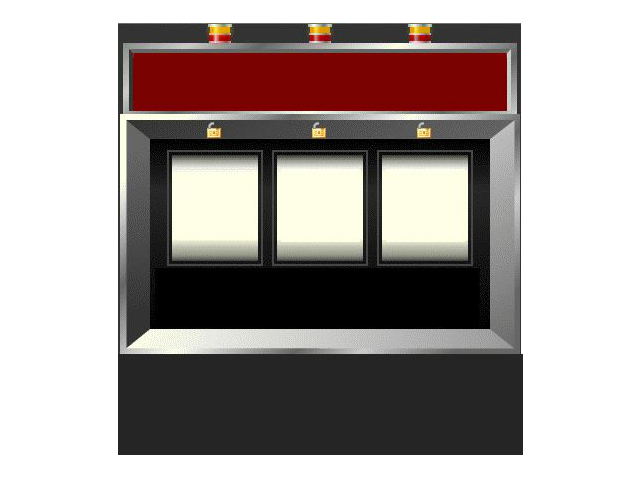
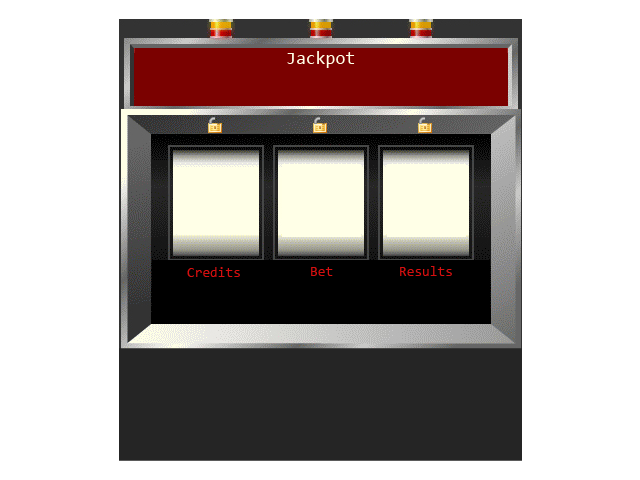
Quit button added

Changed region(s): [[0.1875, 0.0312, 0.8125, 0.75], [0.1875, 0.9375, 0.8125, 0.9688]]

diff --git a/Scripts/scenes/slotmachine.ts b/Scripts/scenes/slotmachine.ts
@@ -1,4 +1,4 @@
-// MENU SCENE
+// SLOT MACHINE SCENE
 module scenes {
     export class SlotMachine extends objects.Scene {
         //PRIVATE INSTANCE VARIABLES ++++++++++++
@@ -25,6 +25,8 @@ module scenes {
         private _bells = 0;
         private _sevens = 0;
         private _blanks = 0;
+        
+        private _quitButton: objects.Button;
         // CONSTRUCTOR ++++++++++++++++++++++
         constructor() {
             super();
@@ -60,12 +62,22 @@ module scenes {
             this._spinButton = new objects.Button("SpinButton", 402, 382, false);
             this.addChild(this._spinButton);
             this._spinButton.on("click", this._spinButtonClick, this); 
+            
+            // add the QUIT button to the SLOT_MACHINE scene
+            this._quitButton = new objects.Button(
+                "Quit",
+                config.Screen.CENTER_X,
+                500, true);
+            this.addChild(this._quitButton);
+            
+            // START Button event listener
+            this._quitButton.on("click", this._quitButtonClick, this);
         
             // add JackPot Text to the scene
             this._jackpotText = new objects.Label(
                 this.jackpot.toString(),
                 "14px Consolas",
-                "#ff0000",
+                "white",
                 335, 90, false);
             this._jackpotText.textAlign = "right";
             this.addChild(this._jackpotText);
@@ -113,6 +125,16 @@ module scenes {
         // SLOT_MACHINE Scene updates here
         public update(): void {
 
+        }
+        
+        //EVENT HANDLERS ++++++++++++++++++++
+        
+        // QUIT Button click event handler
+        private _quitButtonClick(event: createjs.MouseEvent) {
+          //GO TO GAMEOVER SCENE
+                scene = config.Scene.GAME_OVER;
+                changeScene();
+           
         }
         
         //PRIVATE METHODS
@@ -255,7 +277,7 @@ module scenes {
             for (var reel: number = 0; reel < 3; reel++) {
                 this._reels[reel] = new createjs.Bitmap(assets.getResult("Blank"));
                 this._reels[reel].x = 180 + (reel * 105);
-                this._reels[reel].y = 170;
+                this._reels[reel].y = 165;
                 this.addChild(this._reels[reel]);
                 console.log("reel" + reel + " " + this._reels[reel]);
             }

diff --git a/Scripts/scenes/slotmachine.js b/Scripts/scenes/slotmachine.js
@@ -3,7 +3,7 @@ var __extends = (this && this.__extends) || function (d, b) {
     function __() { this.constructor = d; }
     d.prototype = b === null ? Object.create(b) : (__.prototype = b.prototype, new __());
 };
-// MENU SCENE
+// SLOT MACHINE SCENE
 var scenes;
 (function (scenes) {
     var SlotMachine = (function (_super) {
@@ -44,8 +44,13 @@ var scenes;
             this._spinButton = new objects.Button("SpinButton", 402, 382, false);
             this.addChild(this._spinButton);
             this._spinButton.on("click", this._spinButtonClick, this);
+            // add the QUIT button to the SLOT_MACHINE scene
+            this._quitButton = new objects.Button("Quit", config.Screen.CENTER_X, 500, true);
+            this.addChild(this._quitButton);
+            // START Button event listener
+            this._quitButton.on("click", this._quitButtonClick, this);
             // add JackPot Text to the scene
-            this._jackpotText = new objects.Label(this.jackpot.toString(), "14px Consolas", "#ff0000", 335, 90, false);
+            this._jackpotText = new objects.Label(this.jackpot.toString(), "14px Consolas", "white", 335, 90, false);
             this._jackpotText.textAlign = "right";
             this.addChild(this._jackpotText);
             // add Credits Text to the scene
@@ -71,6 +76,13 @@ var scenes;
         };
         // SLOT_MACHINE Scene updates here
         SlotMachine.prototype.update = function () {
+        };
+        //EVENT HANDLERS ++++++++++++++++++++
+        // QUIT Button click event handler
+        SlotMachine.prototype._quitButtonClick = function (event) {
+            //GO TO GAMEOVER SCENE
+            scene = config.Scene.GAME_OVER;
+            changeScene();
         };
         //PRIVATE METHODS
         /* Utility function to check if a value falls within a range of bounds */
@@ -203,7 +215,7 @@ var scenes;
             for (var reel = 0; reel < 3; reel++) {
                 this._reels[reel] = new createjs.Bitmap(assets.getResult("Blank"));
                 this._reels[reel].x = 180 + (reel * 105);
-                this._reels[reel].y = 170;
+                this._reels[reel].y = 165;
                 this.addChild(this._reels[reel]);
                 console.log("reel" + reel + " " + this._reels[reel]);
             }

diff --git a/Scripts/scenes/gameover.js b/Scripts/scenes/gameover.js
@@ -19,7 +19,7 @@ var scenes;
             this._gameOverLabel = new objects.Label("GAME OVER", "60px Consolas", "#000000", config.Screen.CENTER_X, config.Screen.CENTER_Y, true);
             this.addChild(this._gameOverLabel);
             // add the START button to the MENU scene
-            this._startOverButton = new objects.Button("StartButton", config.Screen.CENTER_X, config.Screen.CENTER_Y + 80, true);
+            this._startOverButton = new objects.Button("StartOverButton", config.Screen.CENTER_X, config.Screen.CENTER_Y + 80, true);
             this.addChild(this._startOverButton);
             // START Button event listener
             this._startOverButton.on("click", this._startOverButtonClick, this);

diff --git a/Scripts/scenes/menu.js b/Scripts/scenes/menu.js
@@ -16,7 +16,7 @@ var scenes;
         // Start Method
         Menu.prototype.start = function () {
             // add the WELCOME Label to the MENU scene
-            this._welcomeLabel = new objects.Label("SLOT MACHINE", "60px Consolas", "#000000", config.Screen.CENTER_X, config.Screen.CENTER_Y, true);
+            this._welcomeLabel = new objects.Label("SLOT MACHINE GAME", "60px Consolas", "#000000", config.Screen.CENTER_X, config.Screen.CENTER_Y, true);
             this.addChild(this._welcomeLabel);
             // add the START button to the MENU scene
             this._startButton = new objects.Button("StartButton", config.Screen.CENTER_X, config.Screen.CENTER_Y + 80, true);

diff --git a/Scripts/core/game.js b/Scripts/core/game.js
@@ -14,6 +14,8 @@ var assetData = [
     { id: "BackButton", src: "../../Assets/images/BackButton.png" },
     { id: "Nextbutton", src: "../../Assets/images/Nextbutton.png" },
     { id: "StartButton", src: "../../Assets/images/StartButton.png" },
+    { id: "Quit", src: "../../Assets/images/Quit.png" },
+    { id: "Reset", src: "../../Assets/images/Reset.png" },
     { id: "StartOverButton", src: "../../Assets/images/StartOverButton.png" },
     { id: "SlotMachine", src: "../../Assets/images/slotmachine3.png" },
     { id: "Bet1Button", src: "../../Assets/images/Bet1Button.png" },

diff --git a/Scripts/core/game.ts b/Scripts/core/game.ts
@@ -18,6 +18,8 @@ var assetData:objects.Asset[] = [
     {id: "BackButton", src:"../../Assets/images/BackButton.png"},
     {id: "Nextbutton", src:"../../Assets/images/Nextbutton.png"},
     {id: "StartButton", src:"../../Assets/images/StartButton.png"},
+    {id: "Quit", src:"../../Assets/images/Quit.png"},
+    {id: "Reset", src:"../../Assets/images/Reset.png"},
     {id: "StartOverButton", src:"../../Assets/images/StartOverButton.png"},
     {id: "SlotMachine", src:"../../Assets/images/slotmachine3.png"},
     {id: "Bet1Button", src:"../../Assets/images/Bet1Button.png"},

diff --git a/Scripts/scenes/gameover.ts b/Scripts/scenes/gameover.ts
@@ -26,7 +26,7 @@ module scenes {
                    
             // add the START button to the MENU scene
             this._startOverButton = new objects.Button(
-                "StartButton",
+                "StartOverButton",
                 config.Screen.CENTER_X,
                 config.Screen.CENTER_Y + 80, true);
             this.addChild(this._startOverButton);

diff --git a/Scripts/scenes/menu.ts b/Scripts/scenes/menu.ts
@@ -18,7 +18,7 @@ module scenes {
             
             // add the WELCOME Label to the MENU scene
             this._welcomeLabel = new objects.Label(
-                "SLOT MACHINE",
+                "SLOT MACHINE GAME",
                 "60px Consolas",
                 "#000000",
                 config.Screen.CENTER_X,

diff --git a/index.html b/index.html
@@ -10,7 +10,7 @@
 </head>
 <body>
     <div class="game">
-        <canvas id="canvas" width="640" height="480"></canvas>
+        <canvas id="canvas" width="640" height="550"></canvas>
     </div>
 
     <!-- JavaScript Libraries-->
